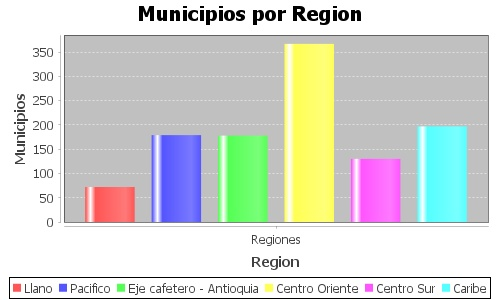
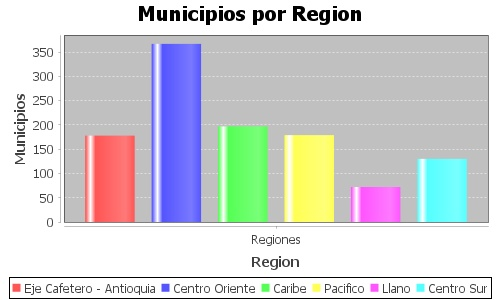
Add files via upload

diff --git a/labs/05/Lab05/src/Main.java b/labs/05/Lab05/src/Main.java
@@ -2,6 +2,8 @@ import javax.swing.*;
 import java.awt.BorderLayout;
 import java.io.File;
 import java.io.IOException;
+import java.util.ArrayList;
+import java.util.List;
 import org.jfree.chart.ChartFactory;
 import org.jfree.chart.ChartPanel;
 import org.jfree.chart.ChartUtilities;
@@ -17,6 +19,7 @@ public class Main extends javax.swing.JFrame {
     JFreeChart pastelexp;
     
     LecturaDatos lectura = new LecturaDatos();
+    
     
     
     public Main() {
@@ -150,16 +153,23 @@ public class Main extends javax.swing.JFrame {
 
     private void jButton1ActionPerformed(java.awt.event.ActionEvent evt) {//GEN-FIRST:event_jButton1ActionPerformed
         int[] mpr = lectura.municipiosPorRegion();
-        
+        List<String> regiones = new ArrayList<>();
+        regiones = lectura.regiones(); 
+        int i=0, j=0;
         //Barras
         DefaultCategoryDataset datos = new DefaultCategoryDataset();
-
-        datos.setValue(mpr[0], "Llano", "Regiones");
+        
+        while(i<regiones.size()){
+            datos.setValue(mpr[i], regiones.get(i), "Regiones");
+            i++;
+        }
+        
+        /*datos.setValue(mpr[0], "Llano", "Regiones");
         datos.setValue(mpr[1], "Pacifico", "Regiones");
         datos.setValue(mpr[2], "Eje cafetero - Antioquia", "Regiones");
         datos.setValue(mpr[3], "Centro Oriente", "Regiones");
         datos.setValue(mpr[4], "Centro Sur", "Regiones");
-        datos.setValue(mpr[5], "Caribe", "Regiones");
+        datos.setValue(mpr[5], "Caribe", "Regiones");*/
         //1123 municipios
         
         JFreeChart barras = ChartFactory.createBarChart("Municipios por Region", "Region", "Municipios", datos, PlotOrientation.VERTICAL, true, true, false);
@@ -172,14 +182,19 @@ public class Main extends javax.swing.JFrame {
         repaint();
         
         //Pastel
-        float n = 1123;
+        float n = mpr[0]+mpr[1]+mpr[2]+mpr[3]+mpr[4]+mpr[5];
+        
         DefaultPieDataset datos1 = new DefaultPieDataset();
-        datos1.setValue("Llano ("+(mpr[0]/n)*100+"%)", mpr[0]);
+        while(j<regiones.size()){
+            datos1.setValue(regiones.get(j)+" ("+(mpr[j]/n)*100+"%)", mpr[j]);
+            j++;
+        }
+        /*datos1.setValue("Llano ("+(mpr[0]/n)*100+"%)", mpr[0]);
         datos1.setValue("Pacifico ("+(mpr[1]/n)*100+"%)", mpr[1]);
         datos1.setValue("Eje cafetero - Antioquia ("+(mpr[2]/n)*100+"%)", mpr[2]);
         datos1.setValue("Centro Oriente ("+(mpr[3]/n)*100+"%)", mpr[3]);
         datos1.setValue("Centro Sur ("+(mpr[4]/n)*100+"%)", mpr[4]);
-        datos1.setValue("Caribe ("+(mpr[5]/n)*100+"%)", mpr[5]);
+        datos1.setValue("Caribe ("+(mpr[5]/n)*100+"%)", mpr[5]);*/
         
         JFreeChart pastel = ChartFactory.createPieChart("Municipios por Region", datos1, true, true, false);
 

diff --git a/labs/05/Lab05/src/LecturaDatos.java b/labs/05/Lab05/src/LecturaDatos.java
@@ -8,6 +8,7 @@ import java.util.Scanner;
 
 public class LecturaDatos {
     private List<Municipio> municipios;
+    List<String> regiones = new ArrayList<>();
 
     public LecturaDatos() {
         municipios = new ArrayList<>();
@@ -27,22 +28,23 @@ public class LecturaDatos {
     }
     
     public int[] municipiosPorRegion(){
-        int mpr[] = new int [6];
+        int mpr[] = new int [regiones.size()];
         int i=0;
         while (i<municipios.size()){
             Municipio temp = municipios.get(i);
+            
             switch (temp.region){
-                case "Llano":   mpr[0]+=1;
+                case "Eje Cafetero - Antioquia":   mpr[0]+=1;
                                 break;
-                case "Pacifico":    mpr[1]+=1;
+                case "Centro Oriente":    mpr[1]+=1;
                                     break;
-                case "Eje Cafetero - Antioquia":    mpr[2]+=1;
+                case "Caribe":    mpr[2]+=1;
                                                     break;
-                case "Centro Oriente":  mpr[3]+=1;
+                case "Pacifico":  mpr[3]+=1;
                                         break;
-                case "Centro Sur":  mpr[4]+=1;
+                case "Llano":  mpr[4]+=1;
                                     break;
-                case "Caribe":  mpr[5]+=1;
+                case "Centro Sur":  mpr[5]+=1;
                                 break;
                 default:    System.out.println("Error: La region "+temp.region+" no esta dentro de las posibles.");
                             break;
@@ -50,6 +52,30 @@ public class LecturaDatos {
             i++;
         }
         return mpr;
+    }
+    
+    public List<String> regiones(){
+        
+        int i=0;
+        
+        while (i<municipios.size()){
+            Municipio temp = municipios.get(i);
+            boolean regionregistrada = false;
+            int j=0;
+            while (j < regiones.size()) {
+                if(temp.region.equals(regiones.get(j))){
+                    regionregistrada = true; 
+                }
+                j++;
+            }
+            if (!regionregistrada) {
+                regiones.add(temp.region);
+                System.out.println(temp.region);
+            }
+            i++;
+        }
+        
+        return regiones;
     }
     
 }

diff --git a/labs/05/Lab05/src/Municipio.java b/labs/05/Lab05/src/Municipio.java
@@ -13,27 +13,5 @@ public class Municipio {
         this.cod_muni = cod_muni;
         this.municipio = municipio;
     }
-
-    public String getRegion() {
-        return region;
-    }
-    public void setRegion(String region) {
-        this.region = region;
-    }
-
-    public String getDepartamento() {
-        return departamento;
-    }
-    public void setDepartamento(String departamento) {
-        this.departamento = departamento;
-    }
-
-    public String getMunicipio() {
-        return municipio;
-    }
-    public void setMunicipio(String municipio) {
-        this.municipio = municipio;
-    }
-    
     
 }
